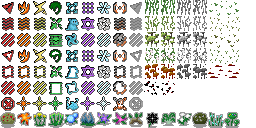
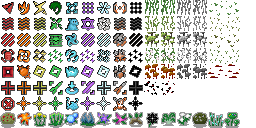
fix: 陷阱图集整区按源图重切(144x112)；去掉背包竖条；取消安卓长按右键(修拖动时视野跳回起点)

Changed region(s): [[0.0, 0.0, 0.5625, 0.875]]

diff --git a/core/src/main/java/com/shatteredpixel/shatteredpixeldungeon/ui/ScrollPane.java b/core/src/main/java/com/shatteredpixel/shatteredpixeldungeon/ui/ScrollPane.java
@@ -132,26 +132,10 @@ public class ScrollPane extends Component {
 	 * 所以这里不能再叠加 this.y —— 之前叠了一次，滚到底时缩略条正好被推出窗口下沿。
 	 */
 	protected void updateThumb() {
-		if (thumb == null || content == null) return;
-
-		// 内容放得下时缩略条就占满整条轨道（看上去是“填满”的），超出时按比例缩短
-		boolean show = content.height() > 1;
-		thumb.visible = show;
-		if (!show) return;
-
-		float track = Math.max( 1, height );
-		float contentH = Math.max( 1, content.height() );
-
-		// 缩略条长度 = 视口 / 内容：内容刚好放得下时就是整条（等于填满），超出时才按比例变短。
-		float thumbH = Math.min( track, track * track / contentH );
-		// 太小就看不见了，给个下限，但永远不超过整条轨道
-		thumbH = Math.max( Math.min( 10, track ), Math.min( track, thumbH ) );
-		thumb.scale.set( 3, thumbH );
-		thumb.x = width - thumb.width() - 1;
-
-		float maxScroll = Math.max( 1, contentH - height );
-		float maxThumbY = Math.max( 0, track - thumbH );
-		thumb.y = maxThumbY * Math.max( 0, Math.min( 1, content.camera.scroll.y / maxScroll ) );
+		// 右侧竖条直接去掉：它挡点击、长度也不好做准，用户要求“弄没”。
+		// 滚动仍然可以用拖动内容/滚轮/拖动缩略区域以外的方式。
+		if (thumb != null) thumb.visible = false;
+		return;
 	}
 
 	@Override

diff --git a/core/src/main/java/com/shatteredpixel/shatteredpixeldungeon/scenes/CellSelector.java b/core/src/main/java/com/shatteredpixel/shatteredpixeldungeon/scenes/CellSelector.java
@@ -80,11 +80,8 @@ public class CellSelector extends ScrollArea {
 	
 	@Override
 	protected void onClick( PointerEvent event ) {
-		if (longPressCandidate && listener != null && listener.supportsLongPressRightClick()
-				&& Game.timeTotal - longPressStart >= LONG_PRESS_TIME) {
-			event.button = PointerEvent.RIGHT;
-			PointerEvent.setHoverPos(event.current);
-		}
+		//安卓上不再把“长按”当成右键：拖动地图时手指必然先按住一会儿，
+		//长按判定会在拖动开始前抢先把点击当成右键，表现就是“拖一下视野就跳回/校正到起点”。
 		longPressCandidate = false;
 
 		if (dragging) {
@@ -191,7 +188,7 @@ public class CellSelector extends ScrollArea {
 	protected void onPointerDown( PointerEvent event ) {
 		camera.edgeScroll.set(-1);
 		if (curEvent == event) {
-			longPressCandidate = !DeviceCompat.isDesktop() && event.button == PointerEvent.LEFT;
+			longPressCandidate = false;
 			longPressStart = Game.timeTotal;
 		}
 		if (event != curEvent && another == null) {
